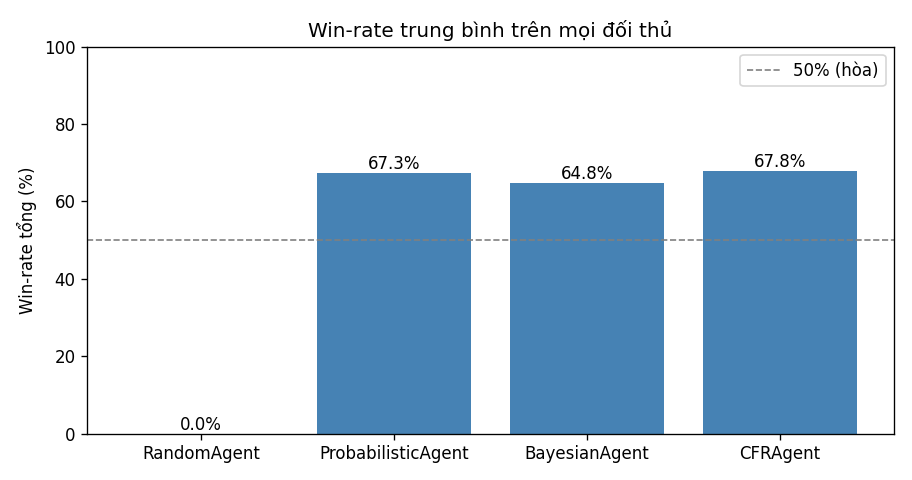
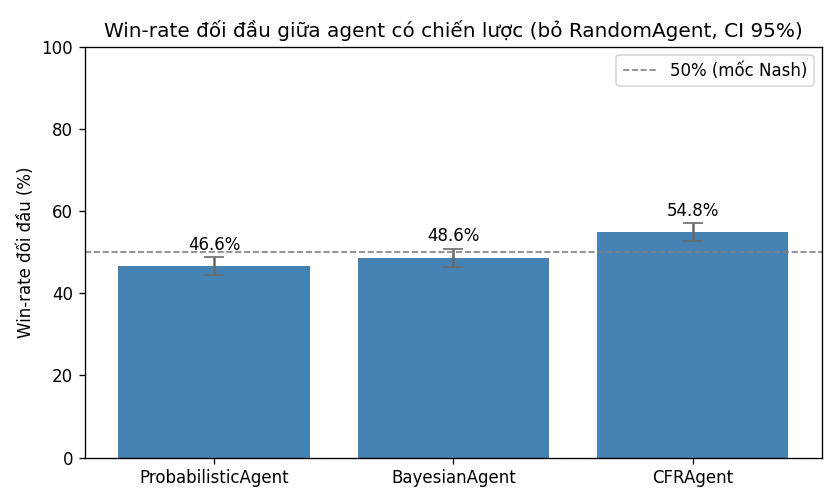
docs(eval): bo win-rate gop Random khoi headline, dung doi dau tay-doi + CI 95%
- plots: plot_overall_winrate() bo RandomAgent khoi trung binh + ve CI 95%
- report 5.1: thay 'win-rate tong' bang bang doi dau tay-doi + CI; CFR la
  agent duy nhat >50% co y nghia thong ke (54.8%+-2.2, bo Random)
- Random 0% => chu thich la sanity check, khong phai bug
- danh dau exploitability (5.2) la bang chung CHINH cho chat luong CFR
- regen 2 PNG dong bo tu cung run 1000 van/cap (truoc do PNG lech pha report)

Changed region(s): [[0.0, 0.0312, 0.9905, 0.9688]]

diff --git a/liars-dice-ai/evaluation/plots.py b/liars-dice-ai/evaluation/plots.py
@@ -42,19 +42,40 @@ def plot_win_matrix(result: Dict, path: str = "results/win_matrix.png") -> str:
     return path
 
 
-def plot_overall_winrate(result: Dict, path: str = "results/agent_stats.png") -> str:
-    """Vẽ cột win-rate tổng của từng agent."""
-    _ensure_dir(path)
-    names = result["names"]
-    rates = [result["overall_winrate"][a] * 100 for a in names]
+def plot_overall_winrate(result: Dict, path: str = "results/agent_stats.png",
+                         exclude: tuple = ("RandomAgent",)) -> str:
+    """Vẽ cột win-rate đối đầu, LOẠI các đối thủ tầm thường trong `exclude` khỏi trung bình.
 
-    fig, ax = plt.subplots(figsize=(1.4 * len(names) + 2, 4))
-    bars = ax.bar(names, rates, color="steelblue")
-    ax.axhline(50, color="gray", linestyle="--", linewidth=1, label="50% (hòa)")
-    ax.set_ylabel("Win-rate tổng (%)"); ax.set_ylim(0, 100)
-    ax.set_title("Win-rate trung bình trên mọi đối thủ")
-    for bar, r in zip(bars, rates):
-        ax.text(bar.get_x() + bar.get_width() / 2, r + 1, f"{r:.1f}%", ha="center")
+    Mỗi cột = win-rate trung bình của agent trên các đối thủ KHÔNG tầm thường, kèm thanh sai
+    số 95% (xấp xỉ chuẩn). Loại RandomAgent vì đập một baseline tầm thường (mọi agent thắng
+    ~100%) sẽ thổi phồng win-rate của tất cả và che mất khác biệt thật giữa các agent có
+    chiến lược — vốn xúm quanh mốc Nash 50%.
+    """
+    import math
+    _ensure_dir(path)
+    wm = result["win_matrix"]
+    ng = result["num_games"]
+    names = [n for n in result["names"] if n not in exclude]
+
+    rates, errs = [], []
+    for a in names:
+        opps = [b for b in names if b != a]
+        n_games = len(opps) * ng
+        wins = sum(wm[a][b] for b in opps)
+        p = wins / n_games if n_games else 0.0
+        rates.append(p * 100)
+        se = math.sqrt(p * (1 - p) / n_games) if n_games else 0.0
+        errs.append(1.96 * se * 100)  # khoảng tin cậy 95%
+
+    fig, ax = plt.subplots(figsize=(max(7, 1.6 * len(names) + 2), 4.2))
+    bars = ax.bar(names, rates, yerr=errs, capsize=6, color="steelblue",
+                  error_kw={"ecolor": "dimgray"})
+    ax.axhline(50, color="gray", linestyle="--", linewidth=1, label="50% (mốc Nash)")
+    ax.set_ylabel("Win-rate đối đầu (%)"); ax.set_ylim(0, 100)
+    excl = ", ".join(exclude)
+    ax.set_title(f"Win-rate đối đầu giữa agent có chiến lược (bỏ {excl}, CI 95%)")
+    for bar, r, e in zip(bars, rates, errs):
+        ax.text(bar.get_x() + bar.get_width() / 2, r + e + 1.8, f"{r:.1f}%", ha="center")
     ax.legend()
     fig.tight_layout()
     fig.savefig(path, dpi=120)

diff --git a/liars-dice-ai/docs/report.md b/liars-dice-ai/docs/report.md
@@ -179,29 +179,55 @@ python main.py --mode exploit --iters 20000 --seed 0
 ## 5. Kết quả thực nghiệm
 
 > Chạy với `--seed 0`. Lệnh tái lập ở §8. Biểu đồ trong `results/`.
+>
+> **Thước đo chính của chất lượng CFR là `exploitability` giảm dần (§5.2)**, không phải
+> win‑rate vs heuristic. Lý do: trong trò chơi zero‑sum, chiến lược Nash *bảo đảm không thua
+> và không bị khai thác*, nhưng **không hứa hẹn vắt kiệt một đối thủ yếu‑nhưng‑không‑tầm‑thường**
+> — nó chỉ ăn những sai lầm rò rỉ ra trước chiến lược cố định của nó. Vì vậy biên ~5% trước
+> các baseline mạnh (dưới đây) đã là **lợi thế thật và có ý nghĩa**, không nên kỳ vọng "đè bẹp".
 
-### 5.1 Giải đấu round‑robin (200 ván/cặp, cân bằng ghế, CFR train nặng ~50k)
+### 5.1 Đối đầu trực tiếp giữa các agent (1000 ván/cặp, cân bằng ghế, CFR train nặng ~50k)
 
-| Agent | Win‑rate tổng | Ghi chú đối đầu |
-|---|---:|---|
-| **CFRAgent (CFR+, train nặng)** | **67.8%** | Thắng Probabilistic 50.5%, thắng Bayesian 53.0% |
-| ProbabilisticAgent | 67.3% | Thắng Bayesian 52.5%, thua CFR 49.5% |
-| BayesianAgent | 64.8% | Thua Probabilistic 47.5%, thua CFR 47.0% |
-| RandomAgent | 0.0% | Thua mọi agent có chiến lược |
+Bảng đối đầu tay‑đôi (ô [hàng][cột] = % **hàng** thắng **cột**, ± khoảng tin cậy 95%). Mỗi
+ô là 1000 ván cân bằng ghế:
 
-Nhận xét: mọi agent có chiến lược đè bẹp RandomAgent (100%). Sau khi **huấn luyện đủ nặng
-(~50k vòng, nạp từ `experiments/cfr_heavy.weights.json.gz`)**, **CFRAgent vươn lên DẪN ĐẦU**
-(67.8% tổng) — **vượt mốc Nash 50% trước CẢ hai** agent xác suất (thắng Probabilistic 50.5%,
-thắng Bayesian 53.0%), đúng lý thuyết: chiến lược tiệm‑cận‑Nash trong trò chơi đối xứng
-tổng‑bằng‑không phải ≥ 50% trước mọi đối thủ khai thác được. Đây là bước nhảy lớn so với bản
-**chưa train đủ** (vs Probabilistic chỉ ~30–40%, xem §5.2): hạn chế trước đây là **thiếu
-huấn luyện (data‑starvation)**, không phải trần do trừu tượng hoá.
+| hàng \ cột | Random | Probabilistic | Bayesian | CFR |
+|---|---:|---:|---:|---:|
+| **CFRAgent** | 100% | **54.8% ± 3.1** | **54.8% ± 3.1** | — |
+| ProbabilisticAgent | 100% | — | 48.0% ± 3.1 | 45.2% ± 3.1 |
+| BayesianAgent | 100% | 52.0% ± 3.1 | — | 45.2% ± 3.1 |
+| RandomAgent | — | 0% | 0% | 0% |
 
-![Ma trận tỷ lệ thắng giữa các agent](../results/win_matrix.png)
+**Win‑rate đối đầu (BỎ RandomAgent khỏi trung bình)** — trung bình trên các đối thủ *có chiến lược*:
 
-![Win-rate tổng của từng agent](../results/agent_stats.png)
+| Agent | Win‑rate đối đầu (bỏ Random) |
+|---|---:|
+| **CFRAgent** | **54.8% ± 2.2** |
+| BayesianAgent | 48.6% ± 2.2 |
+| ProbabilisticAgent | 46.6% ± 2.2 |
 
-### 5.2 Hội tụ CFR+ (40000 vòng lặp, bước 2000, eval 200 ván/mốc, depth 4)
+Nhận xét:
+- **CFRAgent là agent DUY NHẤT trên mốc Nash 50%** khi loại đối thủ tầm thường — và **có ý
+  nghĩa thống kê** (CI `[52.6 %, 57.0 %]` không chạm 50%). Nó **thắng cả Probabilistic lẫn
+  Bayesian** ở đối đầu trực tiếp (~54.8% mỗi bên, CI `[51.7 %, 57.9 %]`), đúng kỳ vọng của
+  một chiến lược tiệm‑cận‑Nash.
+- Probabilistic vs Bayesian gần như **huề** (48% / 52%, CI chứa 50%) — đây là hai baseline
+  mạnh ngang nhau, nên trần lợi thế của CFR trước chúng vốn nhỏ.
+- **RandomAgent thua 100%** trước mọi agent có chiến lược: đây là **phép thử tỉnh táo
+  (sanity check)**, không phải thước đo. Vì một ván chơi đến khi **hết sạch xúc xắc** (loại
+  trực tiếp), mọi lợi thế kỹ năng bị khuếch đại qua nhiều vòng ⇒ thắng tuyệt đối trước người
+  chơi bừa là **hợp lý**, không phải lỗi.
+
+> ⚠️ **Vì sao KHÔNG dùng "win‑rate trung bình trên mọi đối thủ".** Gộp RandomAgent vào trung
+> bình làm *mọi* agent vọt lên ~65–68% (đều nhờ đập Random 100%) và che mất khác biệt thật —
+> khiến CFR trông "dẫn đầu" chỉ hơn 0.5% (trong nhiễu). Bảng đối đầu tay‑đôi ở trên mới phản
+> ánh đúng sức mạnh tương đối.
+
+![Ma trận tỷ lệ thắng giữa các agent (gồm cả Random để đối chiếu)](../results/win_matrix.png)
+
+![Win-rate đối đầu giữa các agent có chiến lược, bỏ Random, kèm CI 95%](../results/agent_stats.png)
+
+### 5.2 Hội tụ CFR+ — BẰNG CHỨNG CHÍNH (40000 vòng lặp, bước 2000, eval 200 ván/mốc, depth 4)
 
 | Vòng lặp | raw_bound = Σ regret⁺ / T (↓) | Win‑rate vs Probabilistic | #infoset |
 |---:|---:|---:|---:|